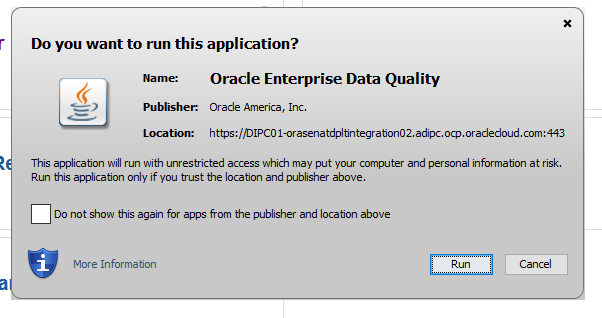
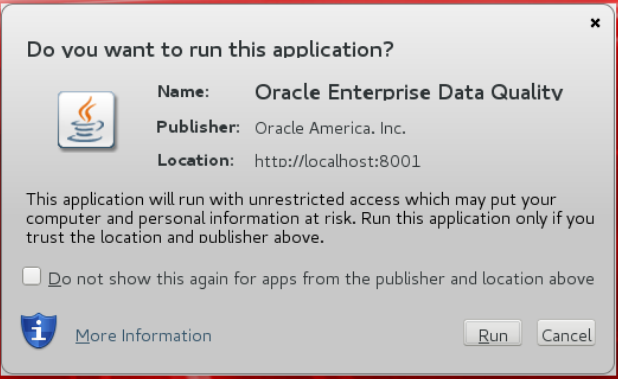
EDQ Updated document

diff --git a/data-management-library/edq/edq-reference-data/edq-reference-data.md b/data-management-library/edq/edq-reference-data/edq-reference-data.md
@@ -91,13 +91,22 @@ then click “Finish”.
 ## **STEP 2**: Copy Reference Data
 Now, we will copy reference data previously created into our project, which will be used in further labs. 
 
-1. Go to browser and download the Examples project from the link <a href='./images/Examples.dxi'> Examples.dxi </a>.
+1. We will use Examples.dxi package which is located in below path.
+   
+    ````
+   <copy>
+    Path: /home/opc/Dxi_Files
+    File Name: Examples.dxi
+   </copy>
+    ````
 
 2. Click on "File" in Director and select "Open Package File...". Browse to the appropriate directory and select the examples.dxi file.
 
     ![](./images/image1200_67.png " ")
 
-3. Select the Downloaded Examples.dxi file in the pop up box and click open.
+3. Select the Examples.dxi file in the pop up box and click open.
+
+    ![](./images/image1200_67_1.png " ")
 
 4.	In the “Project Browser” find a project titled “Examples”, expand it.
 
@@ -117,7 +126,7 @@ Now, we will copy reference data previously created into our project, which will
  
      ![](./images/image1200_71.png " ")
 
-9.  Right click on the Examples.dxi package and select "Close Package File". This action will close the package file in EDQ director.
+1.  Right click on the Examples.dxi package and select "Close Package File". This action will close the package file in EDQ director.
 
     ![](./images/image1200_72.png " ")
 

diff --git a/data-management-library/edq/setup-edq-rep/setup-edq-rep.md b/data-management-library/edq/setup-edq-rep/setup-edq-rep.md
@@ -57,7 +57,7 @@ This lab assumes you have:
     ![](images/weblogic_3.png)
 
 
-### **Optional:** EDQ Start Script
+### **Optional:** If EDQ is not running, use EDQ Start Script to start the Services
 
 1. Right click on Home screen and select "Open Terminal".
 
@@ -79,15 +79,13 @@ Please login into weblogic console and check if all the EDQ services are up and 
 
 ## **STEP 2**: Start EDQ Director and Create new project in EDQ
 
-1.	Open a web browser, go to EDQ Launchpad and click on “Director”.
+1.	On the desktop, double click on Director icon.
 
-    **URL:** http://localhost:8001/edq 
+    ![](./images/edq_desktop.png)
 
-    ![](./images/image1200_5.png)
+2.	Select "Later" for the java update option.
 
-2.	Click “OK” to accept opening the program.
-
-    ![](./images/image1200_6.png)
+    ![](./images/java_update.png)
 
 3.	Wait a few minutes, you will receive a new message, click on “Run”.
 
